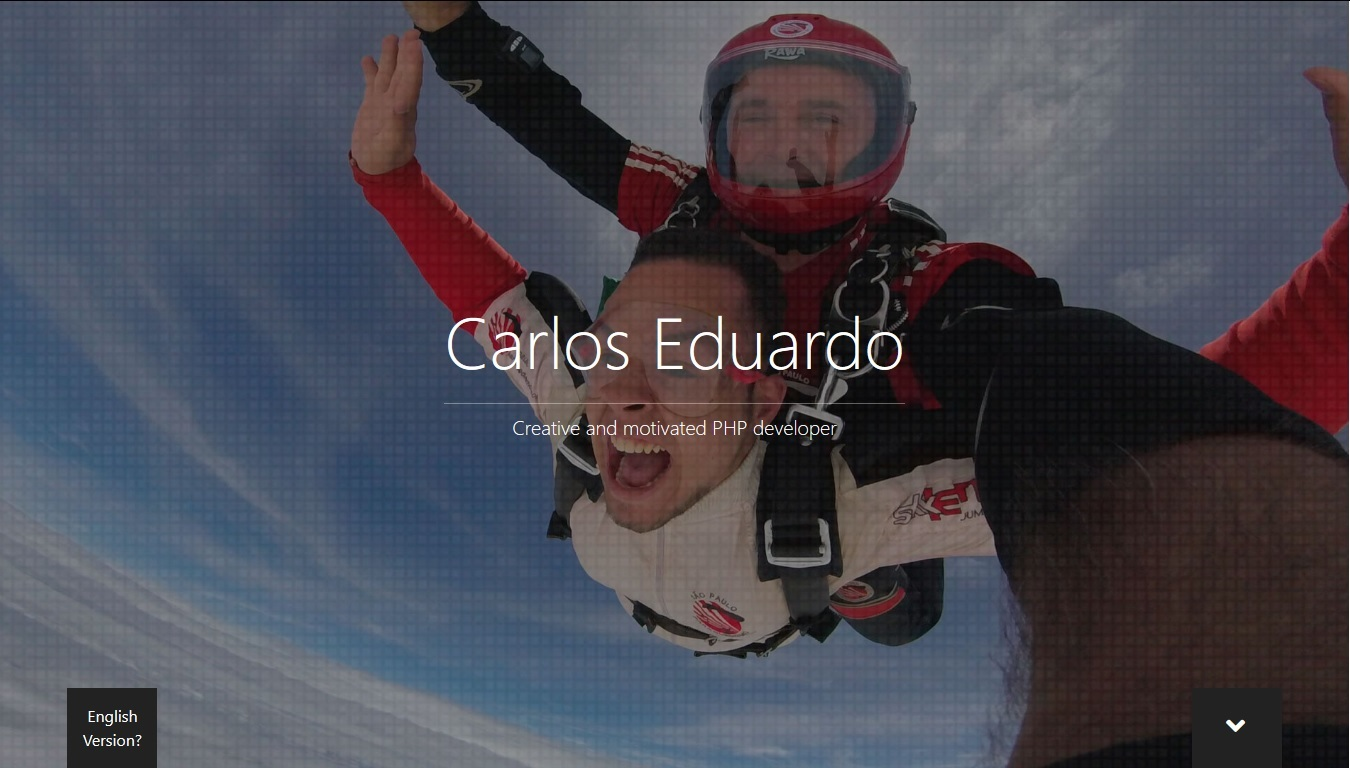
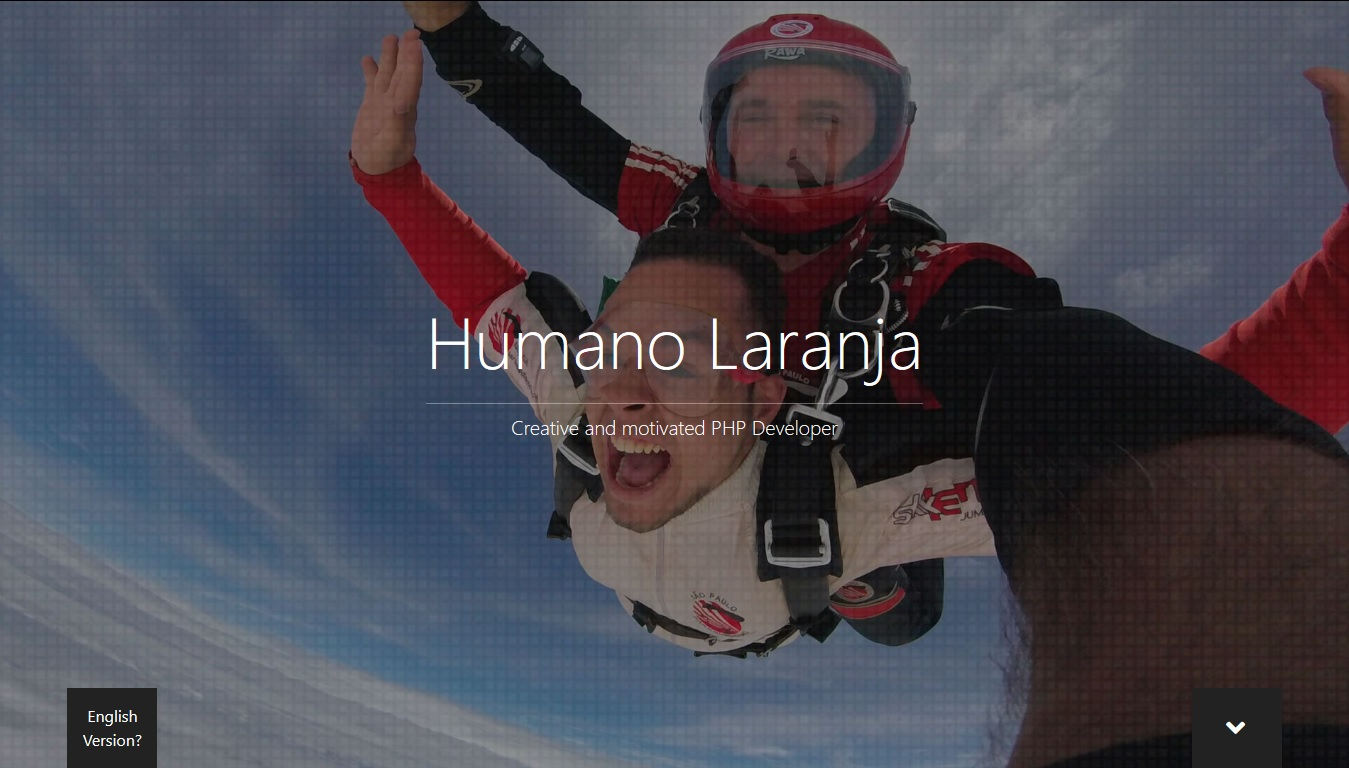
Vars updates and minimal improvements

diff --git a/css/main.css b/css/main.css
@@ -146,7 +146,7 @@
 }
 
 #habilidades-main.container {
-  background-color: #d9853b;
+  background-color: #e27749;
 }
 
 #projetos-main.container {
@@ -169,7 +169,7 @@
 }
 
 #habilidades-main .divstar:hover {
-  background: #e2934e;
+  background: #e97a4b;
 }
 
 #habilidades-main .divstar .fa-star {
@@ -246,6 +246,6 @@ hr {
   text-decoration: none;
 }
 
-img[alt="www.000webhost.com"] {
-  display:none;
+.hide {
+  display: none !important;
 }

diff --git a/php/vars.php b/php/vars.php
@@ -6,7 +6,7 @@
     $habilidades          = 'Abilities';
     $projetos             = 'Projects';
     $contato              = 'Contact';
-    $descperfil           = 'Junior programmer hungry for knowledge';
+    $descperfil           = 'Junior developer hungry for knowledge';
     $descexperiencias     = 'Places I keep in my heart';
     $deschabilidades      = 'A little of what I know';
     $descprojetos         = 'A little bit of me out there';
@@ -27,25 +27,25 @@
     $experienciasdados    = '[';
 
     $experienciasdados   .= '{';
-    $experienciasdados   .= '"Educação":';
+    $experienciasdados   .= '"Educations":';
     $experienciasdados   .= '[';
-    $experienciasdados   .= '{"where":"Unicamp","period":"2017-Atualmente","name":"Bacharelado em Ciência da Computação","desc":"Um curso que abrange muitos temas das comptação. Considerada a melhor faculdade da América Latina, e a melhor avaliação de curso no País.","place":"Campinas - SP"},';
-    $experienciasdados   .= '{"where":"Etec de Francisco Morato","period":"2014-2017","name":"Ensino Médio Integrado ao Técnico em Informática para a Internet","desc":"Aonde aprendi a base do que sei, lógica de programação e a paixão pela tecnologia.","place":"Francisco Morato - SP"}';
+    $experienciasdados   .= '{"where":"Unicamp","period":"2017-Now","name":"Bachelor - Computer Science","desc":"A course that covers many topics of computing. Considered the best college in Latin America, and the best course evaluation in the country.","place":"Campinas - SP"},';
+    $experienciasdados   .= '{"where":"Etec de Francisco Morato","period":"2014-2017","name":"Integrated Higher Education in Computer Science for the Internet","desc":"Where I learned the basis of what I know, programming logic and passion for technology.","place":"Francisco Morato - SP"}';
     $experienciasdados   .= ']';
     $experienciasdados   .= '},';
 
     $experienciasdados   .= '{';
-    $experienciasdados   .= '"Carreiras":';
+    $experienciasdados   .= '"Careers":';
     $experienciasdados   .= '[';
-    $experienciasdados   .= '{"where":"Conpec","period":"2017-Atualmente","name":"Assessor de Projetos","desc":"Depois eu escrevo","place":"Campinas - SP","site":"http://www.conpec.com.br"},';
-    $experienciasdados   .= '{"where":"Ofício GR","period":"2017-Atualmente","name":"Programador Júnior","desc":"Depois eu escrevo","place":"Home Office","site":"http://www.oficiogr.com.br"}';
+    $experienciasdados   .= '{"where":"Ofício GR","period":"2017-Now","name":"Junior Developer","desc":"Depois eu escrevo","place":"Home Office","site":"http://www.oficiogr.com.br"},';
+    $experienciasdados   .= '{"where":"Conpec","period":"2017-Now","name":"Project Advisor","desc":"Depois eu escrevo","place":"Campinas - SP","site":"http://www.conpec.com.br"}';
     $experienciasdados   .= ']';
     $experienciasdados   .= '},';
 
     $experienciasdados   .= '{';
-    $experienciasdados   .= '"Trabalhos Voluntários":';
+    $experienciasdados   .= '"Volunteer Works":';
     $experienciasdados   .= '[';
-    $experienciasdados   .= '{"where":"test","period":"test","name":"test","desc":"test","place":"test","site":"test"}';
+    $experienciasdados   .= '{"where":"Etec de Francisco Morato","period":"2015-2017","name":"Help the school","desc":"General maintenance of computers, acting in the installation and maintenance of the various machines of the place, both in the hardware part as in the restructuring of the network and reformulation of the computer systems.","place":"Francisco Morato - SP"}';
     $experienciasdados   .= ']';
     $experienciasdados   .= '}';
 
@@ -55,7 +55,7 @@
     $habilidadesdados     = '[';
 
     $habilidadesdados    .= '{';
-    $habilidadesdados    .= '"Habilidades":';
+    $habilidadesdados    .= '"Abilities":';
     $habilidadesdados    .= '[';
     $habilidadesdados    .= '{"name":"HTML","stars":"5"},';
     $habilidadesdados    .= '{"name":"CSS","stars":"4"},';
@@ -75,15 +75,15 @@
     $habilidadesdados    .= '},';
 
     $habilidadesdados    .= '{';
-    $habilidadesdados    .= '"Idiomas":';
+    $habilidadesdados    .= '"Languages":';
     $habilidadesdados    .= '[';
-    $habilidadesdados    .= '{"name":"Português","stars":"5"},';
-    $habilidadesdados    .= '{"name":"Inglês","stars":"4"}';
+    $habilidadesdados    .= '{"name":"Portuguese","stars":"5"},';
+    $habilidadesdados    .= '{"name":"English","stars":"4"}';
     $habilidadesdados    .= ']';
     $habilidadesdados    .= '},';
 
     $habilidadesdados    .= '{';
-    $habilidadesdados    .= '"Ferramentas":';
+    $habilidadesdados    .= '"Tools":';
     $habilidadesdados    .= '[';
     $habilidadesdados    .= '{"name":"Atom","stars":"5"},';
     $habilidadesdados    .= '{"name":"Windows","stars":"5"},';
@@ -109,7 +109,8 @@
 
 
     $projetosdados     = '[';
-    $projetosdados    .= '{"name":"Currículo Humano Laranja","desc":"Um currículo interativo da qual eu explorei um pouco do que sei, juntando conceitos de UI, UX e alteração de idioma com PHP","img":"humanolaranja.jpg","url":"https://www.humanolaranja.com.br"}';
+    $projetosdados    .= '{"name":"Orange Human\'s Resume","desc":"An interactive curriculum from which I have explored some of what I know, joining concepts of UI, UX and language change with PHP","img":"humanolaranja.jpg","url":"http://www.humanolaranja.com.br"},';
+    $projetosdados    .= '{"name":"Conpec","desc":"Desc","img":"conpec.jpg","url":"http://www.conpec.com.br"}';
     $projetosdados    .= ']';
   }
   else {
@@ -119,7 +120,7 @@
     $habilidades          = 'Habilidades';
     $projetos             = 'Projetos';
     $contato              = 'Contato';
-    $descperfil           = 'Programador Júnior com fome de conhecimento';
+    $descperfil           = 'Desenvolvedor Júnior com fome de conhecimento';
     $descexperiencias     = 'Lugares que guardo no coração';
     $deschabilidades      = 'Um pouco do que sei';
     $descprojetos         = 'Um pedacinho de mim por aí';
@@ -142,23 +143,23 @@
     $experienciasdados   .= '{';
     $experienciasdados   .= '"Educação":';
     $experienciasdados   .= '[';
-    $experienciasdados   .= '{"where":"Unicamp","period":"2017-Atualmente","name":"Bacharelado em Ciência da Computação","desc":"Um curso que abrange muitos temas das comptação. Considerada a melhor faculdade da América Latina, e a melhor avaliação de curso no País.","place":"Campinas - SP"},';
-    $experienciasdados   .= '{"where":"Etec de Francisco Morato","period":"2014-2017","name":"Ensino Médio Integrado ao Técnico em Informática para a Internet","desc":"Aonde aprendi a base do que sei, lógica de programação e a paixão pela tecnologia.","place":"Francisco Morato - SP"}';
+    $experienciasdados   .= '{"where":"Unicamp","period":"2017-Atualmente","name":"Bacharelado em Ciência da Computação","desc":"Um curso que abrange muitos temas das computação. Considerada a melhor faculdade da América Latina, e a melhor avaliação de curso no País.","place":"Campinas - SP"},';
+    $experienciasdados   .= '{"where":"Etec de Francisco Morato","period":"2014-2017","name":"Ensino Médio Integrado ao Técnico em Informática para a Internet","desc":"Onde aprendi a base do que sei, lógica de programação e a paixão pela tecnologia.","place":"Francisco Morato - SP"}';
     $experienciasdados   .= ']';
     $experienciasdados   .= '},';
 
     $experienciasdados   .= '{';
     $experienciasdados   .= '"Carreiras":';
     $experienciasdados   .= '[';
-    $experienciasdados   .= '{"where":"Conpec","period":"2017-Atualmente","name":"Assessor de Projetos","desc":"Depois eu escrevo","place":"Campinas - SP","site":"http://www.conpec.com.br"},';
-    $experienciasdados   .= '{"where":"Ofício GR","period":"2017-Atualmente","name":"Programador Júnior","desc":"Depois eu escrevo","place":"Home Office","site":"http://www.oficiogr.com.br"}';
+    $experienciasdados   .= '{"where":"Ofício GR","period":"2017-Atualmente","name":"Desenvolvedor Júnior","desc":"Depois eu escrevo","place":"Home Office","site":"http://www.oficiogr.com.br"},';
+    $experienciasdados   .= '{"where":"Conpec","period":"2017-Atualmente","name":"Assessor de Projetos","desc":"Depois eu escrevo","place":"Campinas - SP","site":"http://www.conpec.com.br"}';
     $experienciasdados   .= ']';
     $experienciasdados   .= '},';
 
     $experienciasdados   .= '{';
     $experienciasdados   .= '"Trabalhos Voluntários":';
     $experienciasdados   .= '[';
-    $experienciasdados   .= '{"where":"test","period":"test","name":"test","desc":"test","place":"test","site":"test"}';
+    $experienciasdados   .= '{"where":"Etec de Francisco Morato","period":"2015-2017","name":"Ajudar a escola","desc":"Manutenção geral de computadores, atuando na instalação e manutenção das diversas máquinas do local, tanto na parte de hardware como na reestruturação da rede e reformulação dos sistemas dos computadores.","place":"Francisco Morato - SP"}';
     $experienciasdados   .= ']';
     $experienciasdados   .= '}';
 
@@ -222,7 +223,8 @@
 
 
     $projetosdados     = '[';
-    $projetosdados    .= '{"name":"Currículo Humano Laranja","desc":"Um currículo interativo da qual eu explorei um pouco do que sei, juntando conceitos de UI, UX e alteração de idioma com PHP","img":"humanolaranja.jpg","url":"https://www.humanolaranja.com.br"}';
+    $projetosdados    .= '{"name":"Currículo Humano Laranja","desc":"Um currículo interativo da qual eu explorei um pouco do que sei, juntando conceitos de UI, UX e alteração de idioma com PHP","img":"humanolaranja.jpg","url":"http://www.humanolaranja.com.br"},';
+    $projetosdados    .= '{"name":"Conpec","desc":"Desc","img":"conpec.jpg","url":"http://www.conpec.com.br"}';
     $projetosdados    .= ']';
   }
 ?>

diff --git a/index.php b/index.php
@@ -9,8 +9,9 @@
       <div class="container">
         <div class="row justify-content-center">
           <div class="col">
-            <h1 class="display-3 white">Carlos Eduardo</h1>
-            <p class="lead white">Creative and motivated PHP developer</p>
+            <h1 class="display-3 white hide">Carlos Eduardo</h1>
+            <h1 class="display-3 white"><?php echo $title; ?></h1>
+            <p class="lead white">Creative and motivated PHP Developer</p>
           </div>
         </div>
       </div>

diff --git a/php/contact.php b/php/contact.php
@@ -11,7 +11,7 @@
     </div>
     <div class="col col-md-6 col-sm-12 divstar">
       <i class="fab fa-linkedin fa-2x space"></i>
-      <a href = "https://www.linkedin.com/in/humanolaranja/">https://www.linkedin.com/in/humanolaranja/</a>
+      <a href = "https://www.linkedin.com/in/humanolaranja/">Linkedin</a>
     </div>
   </div>
 </div>
